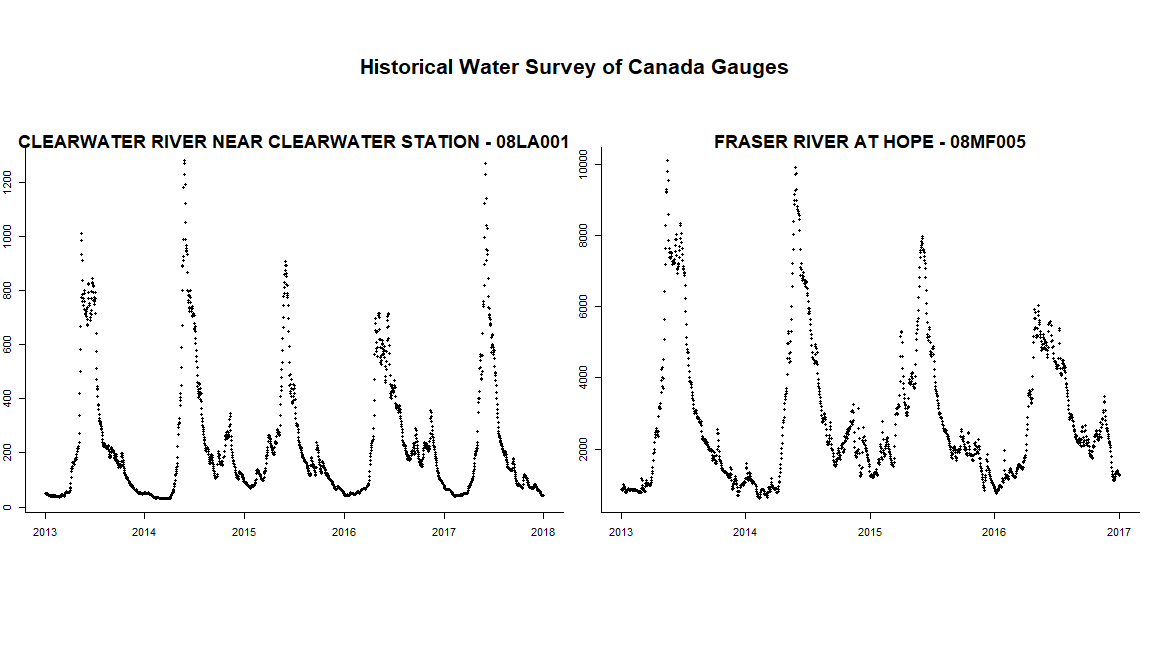
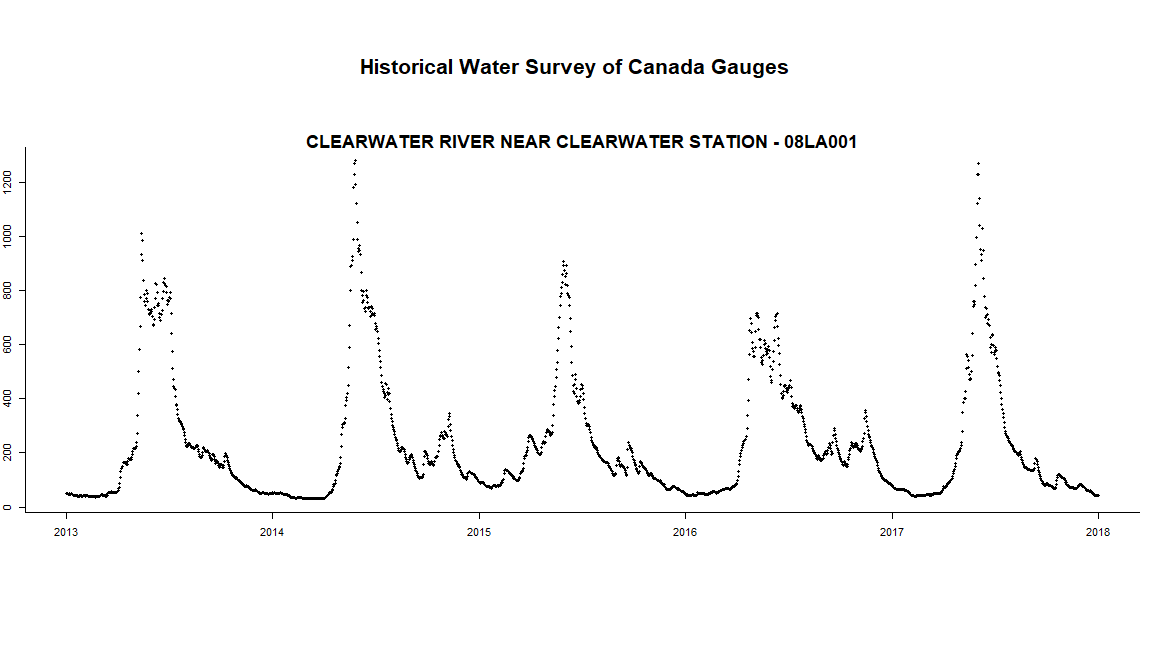
fix travis

diff --git a/README.md b/README.md
@@ -238,11 +238,11 @@ plot(realtime_ex)
 
 ![](tools/readme/README-unnamed-chunk-8-1.png)<!-- -->
 
-and also historical data:
+and also historical
+data:
 
 ``` r
-hy_ex <- hy_daily_flows(station_number = c("08LA001", "08MF005"),
-                      start_date = "2013-01-01")
+hy_ex <- hy_daily_flows(station_number = "08LA001", start_date = "2013-01-01")
 
 plot(hy_ex)
 ```
